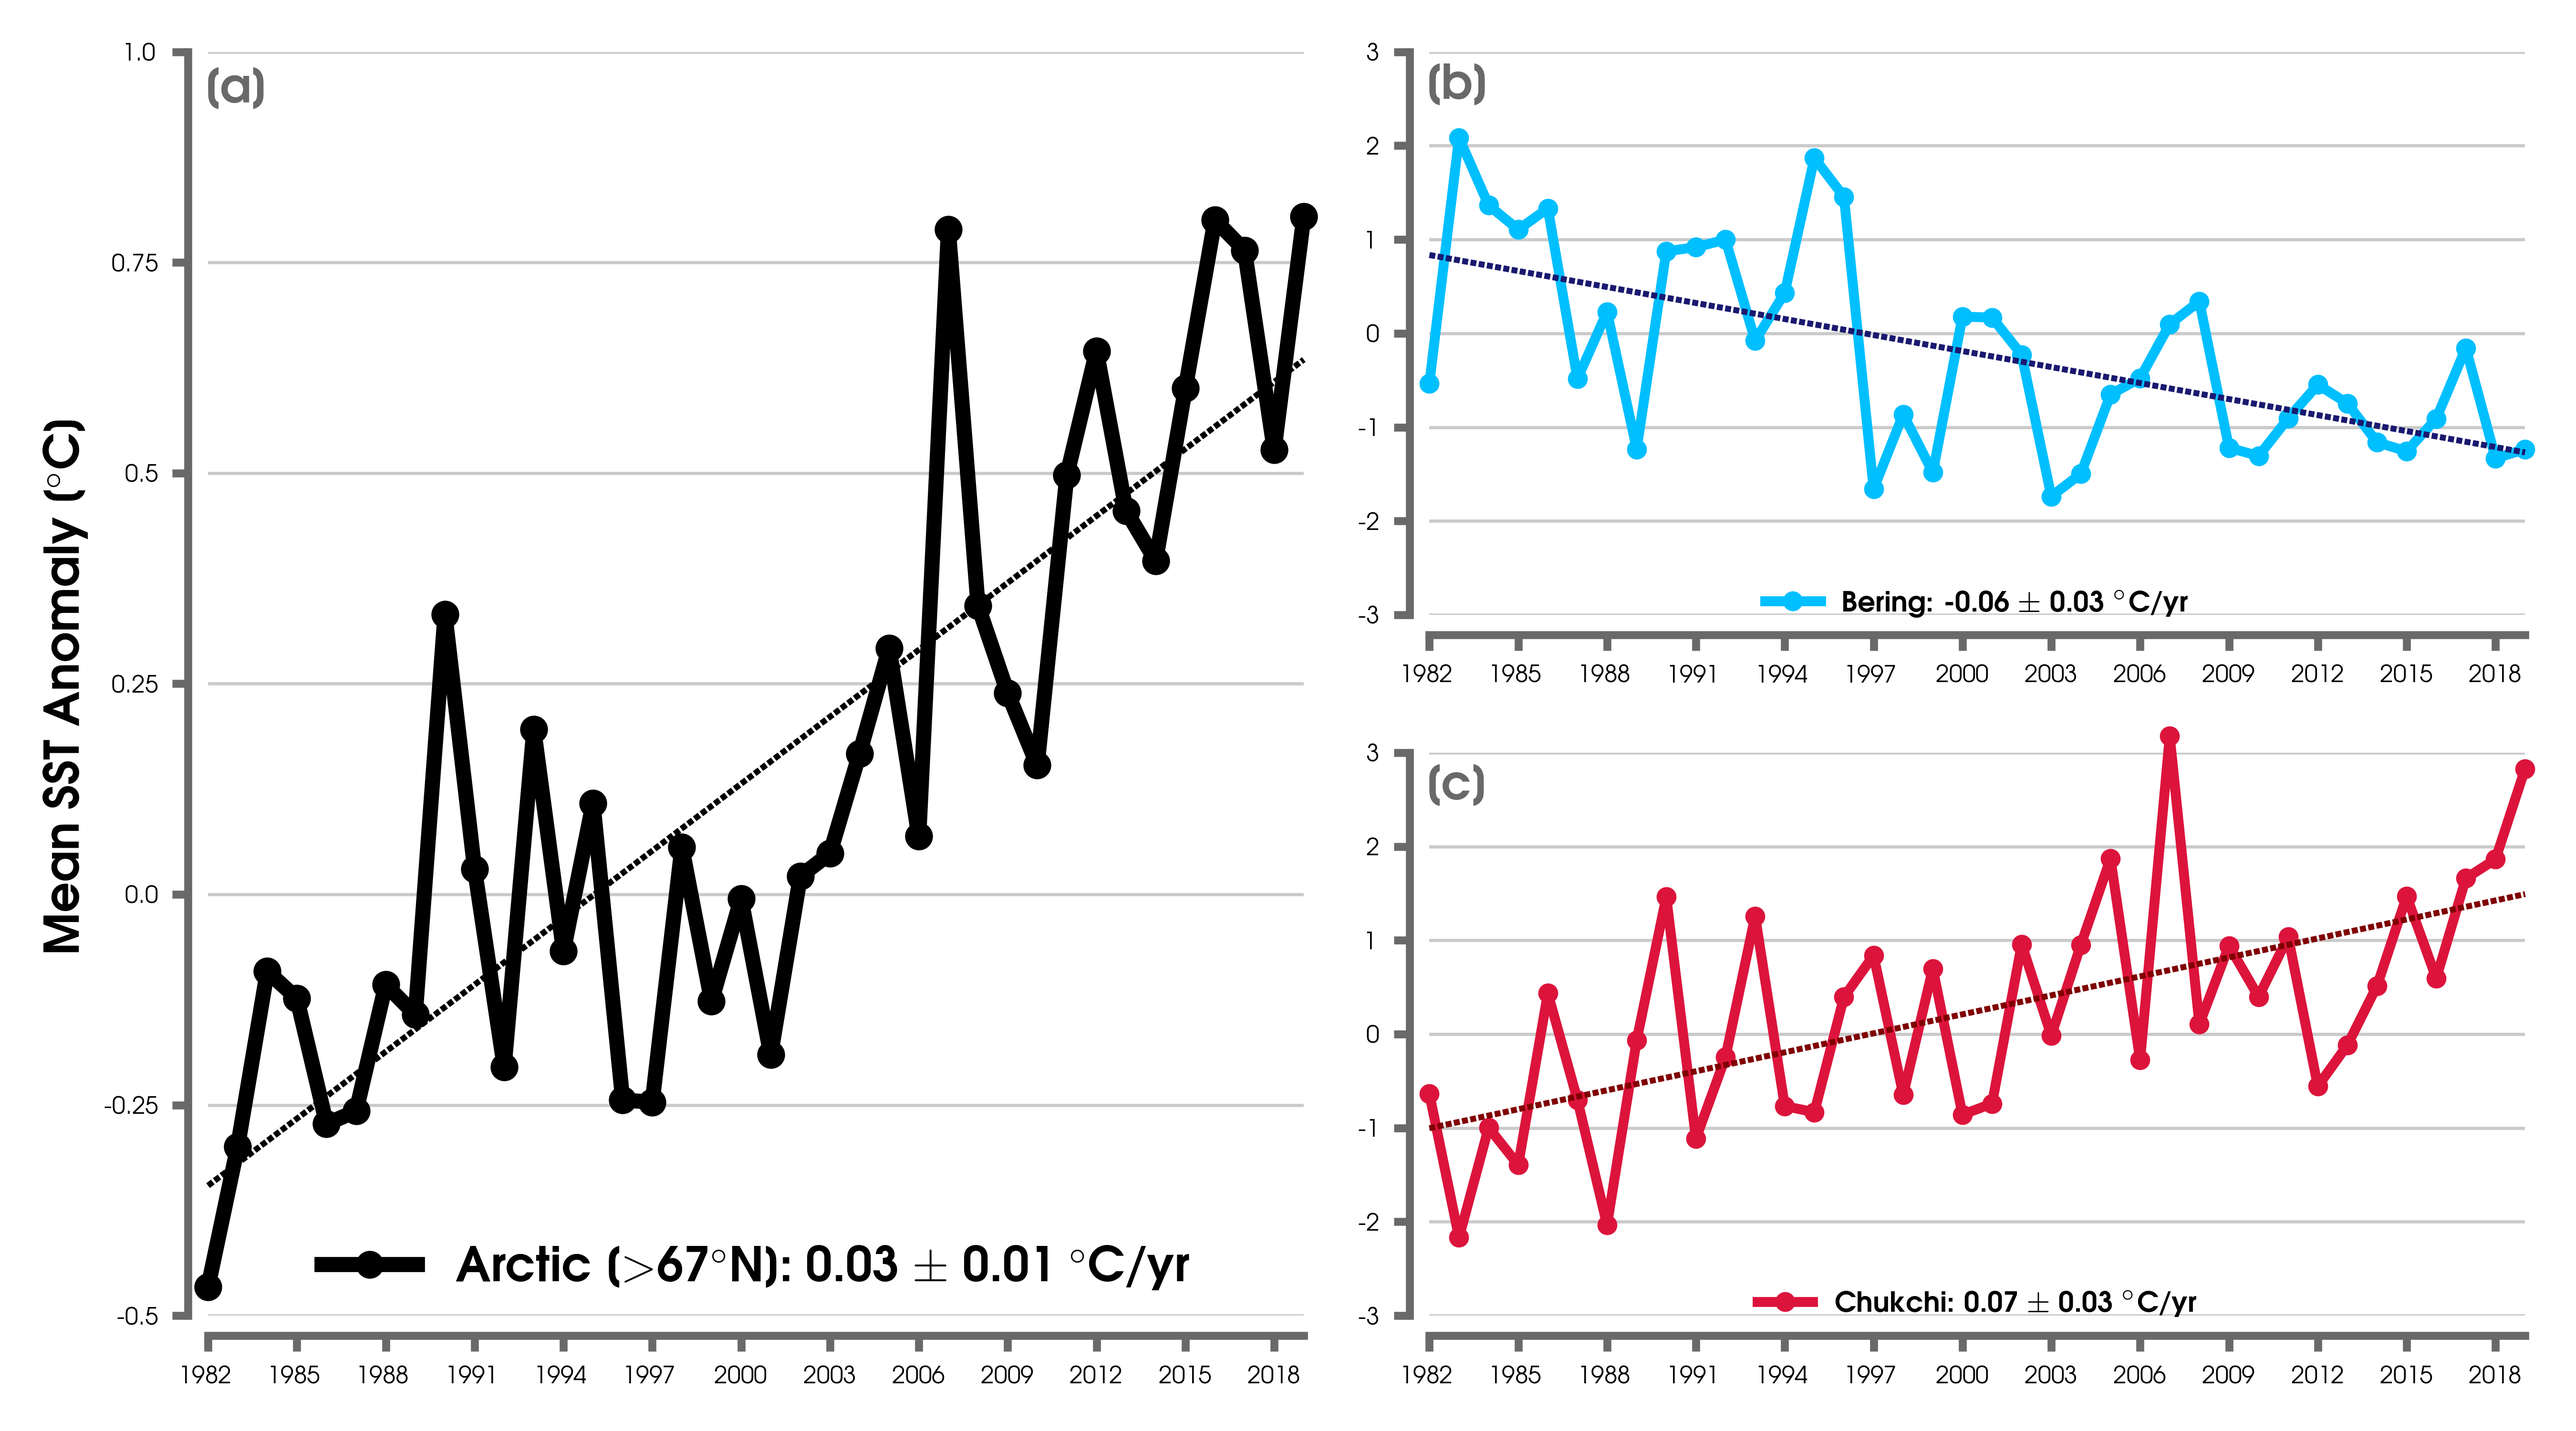
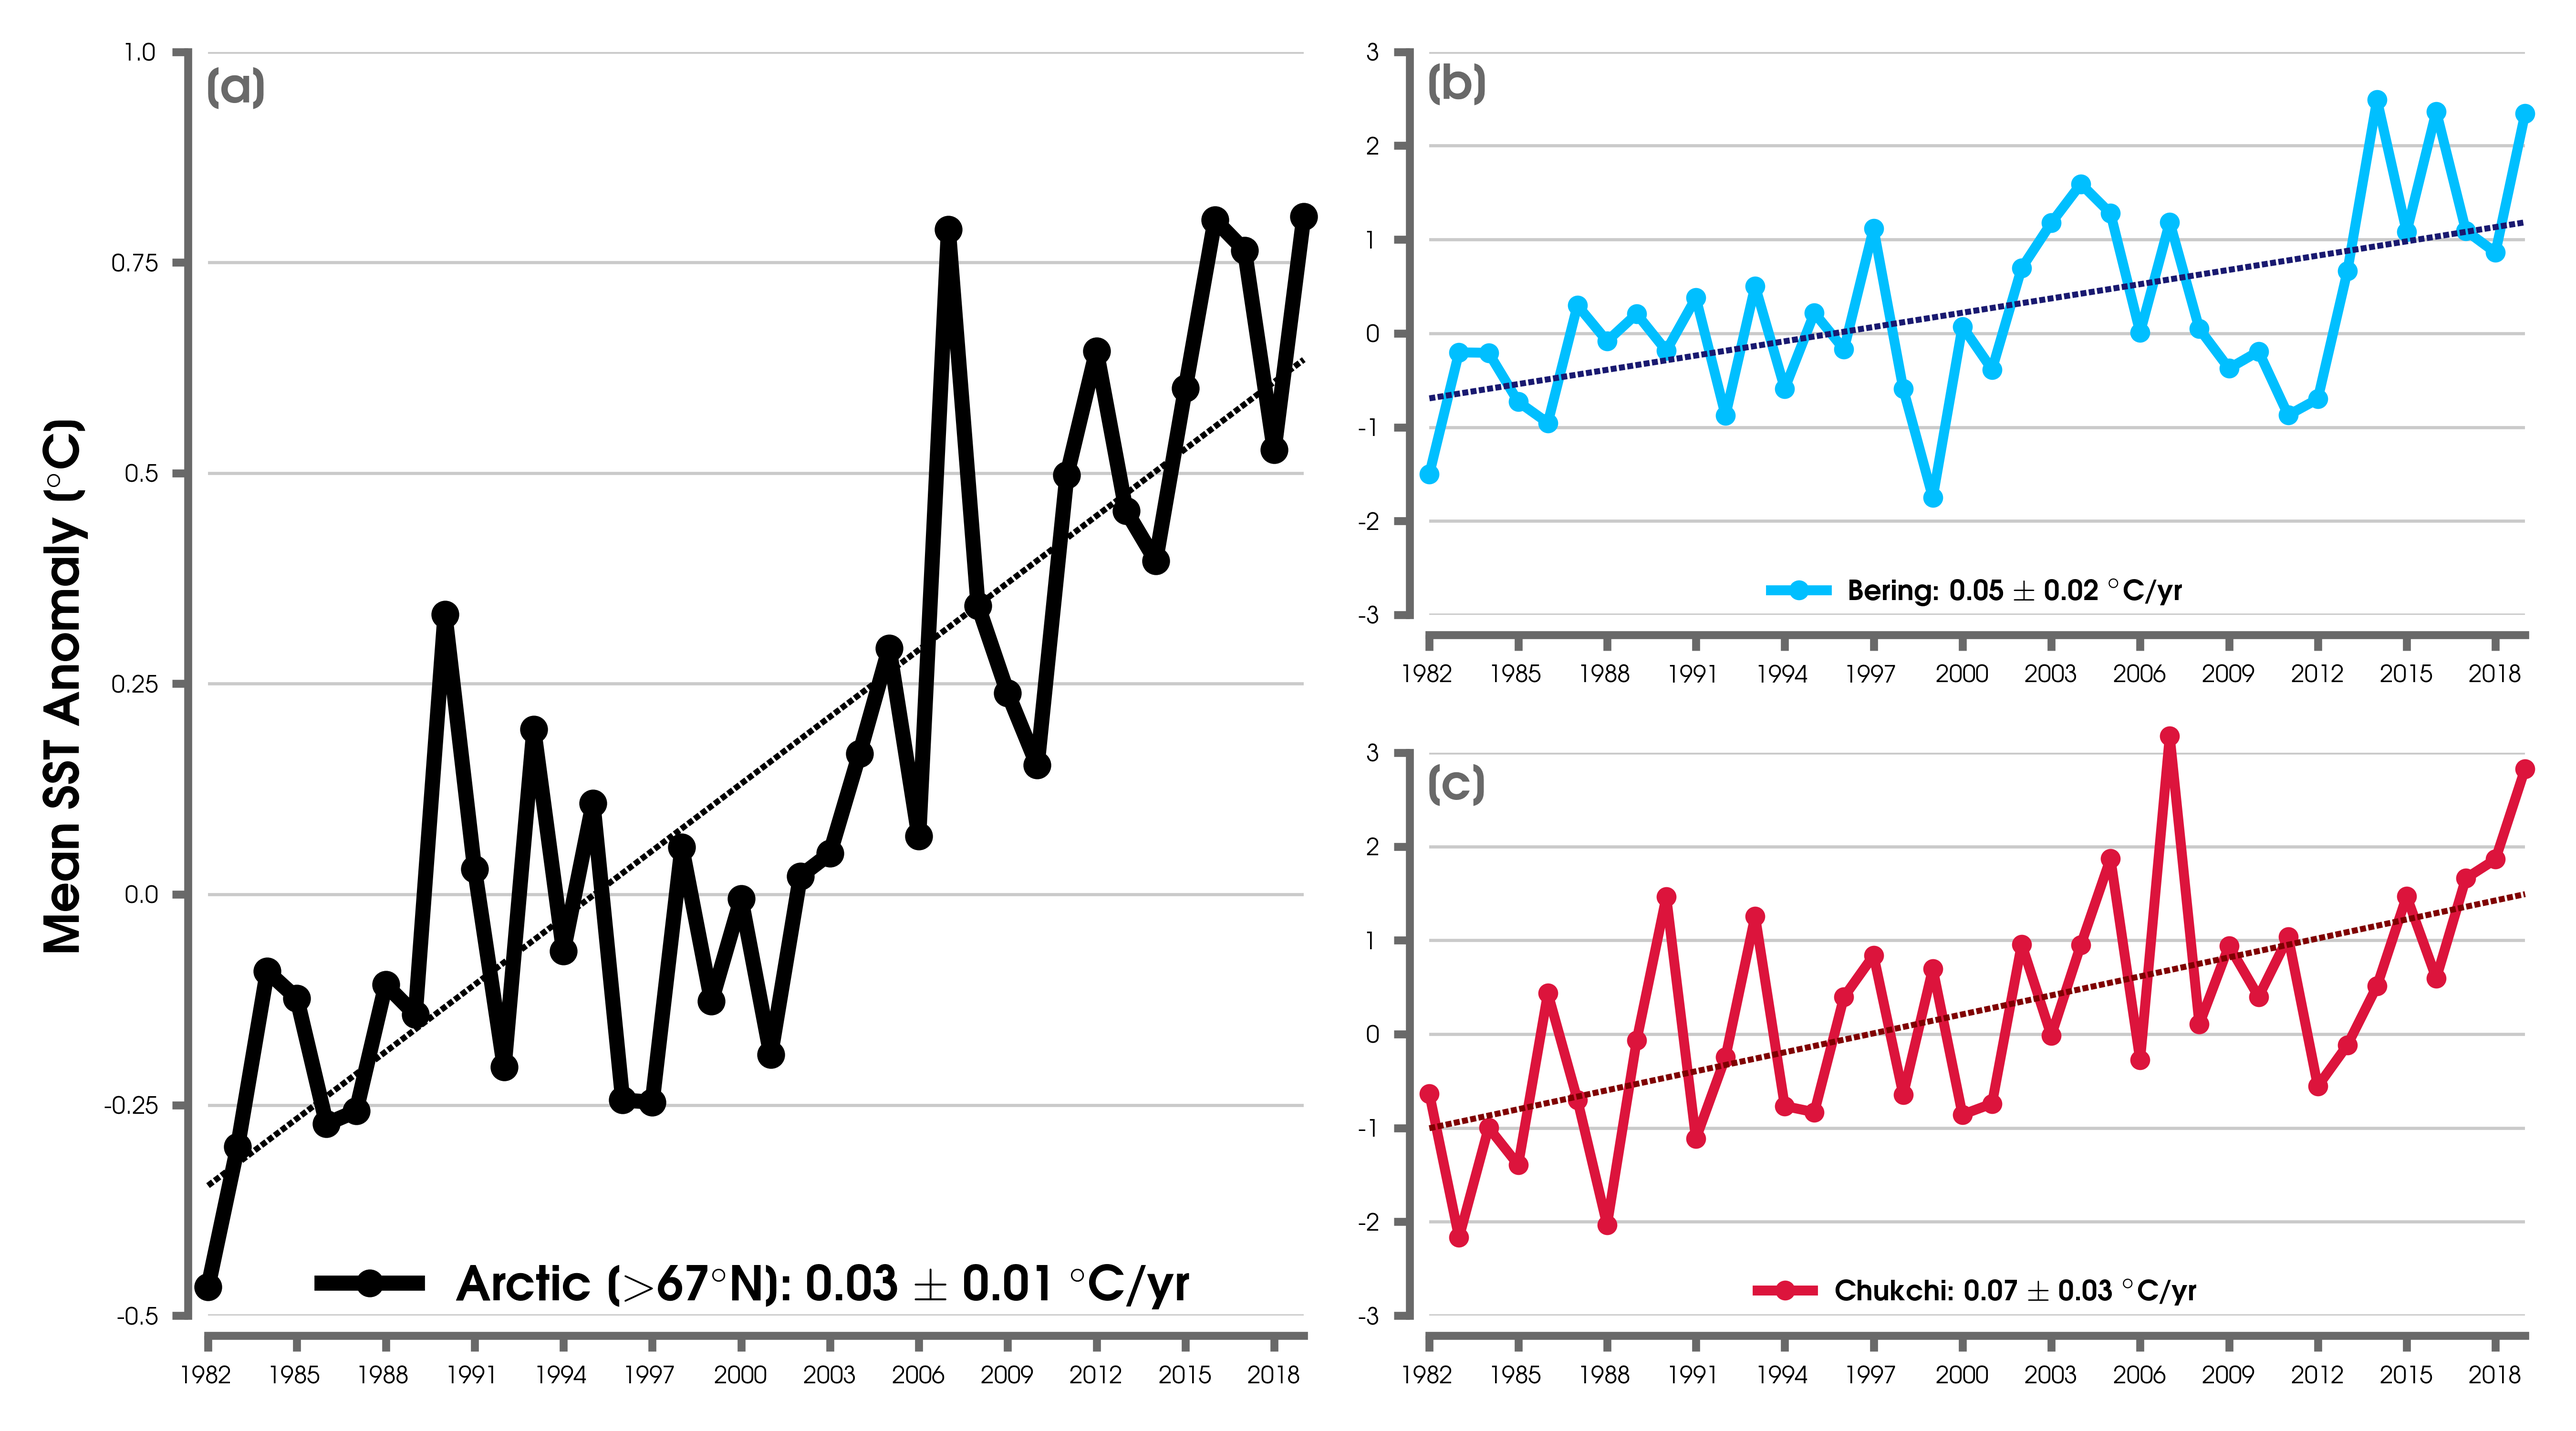
Barents SIE

diff --git a/BAMS_SOTC/2019/plot_SST_TimeSeries_Barents.py b/BAMS_SOTC/2019/plot_SST_TimeSeries_Barents.py
@@ -1,0 +1,118 @@
+"""
+Script plot time series for Barents sea ice and SST
+ 
+Source : Reynolds et al. 2002 [Journal of Climate]
+Data: https://www.esrl.noaa.gov/psd/data/gridded/data.noaa.oisst.v2.html
+Author : Zachary Labe
+Date : 4 February 2019
+"""
+
+import matplotlib.pyplot as plt
+import numpy as np
+import scipy.stats as sts
+import calc_SIE as ICEALL
+import calc_RegionalSIE as ICEREG
+
+### Define constants
+directorydata = '/home/zlabe/Documents/Projects/ClimatePython/BAMS_SOTC/2019/Data/'
+directoryfigure = '/home/zlabe/Documents/Projects/ClimatePython/BAMS_SOTC/2019/Figures/'
+years = np.arange(1982,2019+1,1)
+month = 'aug'
+monq = 8
+
+### Read in SST data
+ba = np.genfromtxt(directorydata + 'SST_Barents_%s_1982-2019.txt' % month)
+
+### Calculate trend lines
+slopeb,interceptb,rvalueb,pvalueb,std_errb = sts.linregress(years,ba)
+lineb = slopeb*years + interceptb
+confb = std_errb*1.96
+
+### Read in sea ice data
+#extb,nsidc = ICEALL.calcSIE(15,'north_barents',monq)
+extb = ICEREG.read_RegionalSIE('Barents',monq)
+
+###############################################################################
+###############################################################################
+###############################################################################
+### Create subplots SST data
+plt.rc('text',usetex=True)
+plt.rc('font',**{'family':'sans-serif','sans-serif':['Avant Garde']}) 
+
+def adjust_spines(ax, spines):
+    for loc, spine in ax.spines.items():
+        if loc in spines:
+            spine.set_position(('outward', 5))
+        else:
+            spine.set_color('none')  
+    if 'left' in spines:
+        ax.yaxis.set_ticks_position('left')
+    else:
+        ax.yaxis.set_ticks([])
+
+    if 'bottom' in spines:
+        ax.xaxis.set_ticks_position('bottom')
+    else:
+        ax.xaxis.set_ticks([])
+        
+fig = plt.figure()
+ax = plt.subplot(111)
+        
+adjust_spines(ax, ['left','bottom'])            
+ax.spines['top'].set_color('none')
+ax.spines['right'].set_color('none') 
+ax.spines['bottom'].set_color('dimgrey')
+ax.spines['left'].set_color('dimgrey')
+ax.spines['bottom'].set_linewidth(2)
+ax.spines['left'].set_linewidth(2) 
+ax.tick_params('both',length=5.5,width=2,which='major',color='dimgrey')     
+
+rects = plt.bar(np.arange(0.5,38.5,1),extb,color='navy',
+                edgecolor='navy')
+
+ylabels = map(str,np.arange(0,2.3,0.2))
+plt.xticks(np.arange(0.5,46.5,3),map(str,np.arange(1982,2025,3)),
+           size=7)
+plt.yticks(np.arange(0,2.1,0.05),map(str,np.round(np.arange(0,2.05,0.05),2)),
+           size=7)
+plt.ylim([0,0.2])
+plt.xlim([0,38.5])
+plt.ylabel(r'\textbf{Barents: Mean Sea Ice Extent [$\bf{\times}$10$\bf{^{6}}$\ \textbf{km}$\bf{^2}$]}',
+           fontsize=11,alpha=1,color='k') 
+        
+################################################################################
+a = plt.axes([.43, .67, .5, .2])
+
+#adjust_spines(a, ['left', 'bottom'])
+a.spines['top'].set_color('none')
+a.spines['right'].set_color('w')
+a.spines['left'].set_color('dimgrey')
+a.spines['bottom'].set_color('dimgrey')
+a.spines['left'].set_linewidth(2)
+a.spines['right'].set_linewidth(0)
+a.spines['bottom'].set_linewidth(2)
+a.tick_params('both',length=4,width=2,which='major',color='dimgrey')
+
+plt.plot(years,ba,linewidth=2,color='steelblue',marker='o',
+         markersize=3,clip_on=False,
+         label = r'\textbf{Northern Barents: %s $\bf{\pm}$ %s $\bf{^{\circ}}$C/yr}' % \
+         (np.round(slopeb,2),np.round(confb,2)),zorder=11)
+plt.plot(years,lineb,linewidth=1,color='k',linestyle='--',
+         dashes=(1,0.4),clip_on=False,zorder=12)
+
+l = plt.legend(fontsize=5,loc='upper center',bbox_to_anchor=(0.5,0.215),
+               ncol=1,frameon=False,fancybox=True,shadow=False)
+
+a.yaxis.grid(zorder=1,color='dimgrey',alpha=0.35)
+plt.xticks(np.arange(1982,2020,3),map(str,np.arange(1982,2020,3)),
+           size=5)
+plt.yticks(np.arange(-10,11,1),map(str,np.arange(-10,11,1)),
+           size=5)
+plt.xlim([1982,2019])
+plt.ylim([-3,3])
+a.tick_params(axis='x', which='major', pad=1)
+a.tick_params(axis='y', which='major', pad=1)
+plt.ylabel(r'\textbf{Mean SST Anomaly [$^\circ$C]}',fontsize=5,color='k',
+                     labelpad=2)
+
+plt.savefig(directoryfigure + 'SST_TimeSeries_%s_Barents.png' % month,dpi = 600)

diff --git a/BAMS_SOTC/2019/plot_SST_TimeSeries_3.py b/BAMS_SOTC/2019/plot_SST_TimeSeries_3.py
@@ -24,7 +24,7 @@ month = 'aug'
 ### Read in data
 polar = np.genfromtxt(directorydata + 'SST_Arctic_%s_1982-2019.txt' % month)
 ch = np.genfromtxt(directorydata + 'SST_Chukchi_%s_1982-2019.txt' % month)
-ba = np.genfromtxt(directorydata + 'SST_Barents_%s_1982-2019.txt' % month)
+ba = np.genfromtxt(directorydata + 'SST_Bering_%s_1982-2019.txt' % month)
 
 ### Calculate trend lines
 slopep,interceptp,rvaluep,pvaluep,std_errp = sts.linregress(years,polar)
@@ -65,7 +65,6 @@ def adjust_spines(ax, spines):
 ###############################################################################
 fig = plt.figure(figsize=(9,5))
 gs = fig.add_gridspec(2,2)
-
 ax1 = fig.add_subplot(gs[:,0])
 adjust_spines(ax1, ['left', 'bottom'])
 ax1.spines['top'].set_color('none')
@@ -84,7 +83,7 @@ plt.plot(years,polar,linewidth=3.8,color='k',marker='o',
 plt.plot(years,linep,linewidth=1.5,color='k',linestyle='--',
          dashes=(1,0.4),clip_on=False)
 
-l = plt.legend(fontsize=12,loc='upper center',bbox_to_anchor=(0.5,0.09),
+l = plt.legend(fontsize=12,loc='upper center',bbox_to_anchor=(0.5,0.075),
                ncol=1,frameon=False,fancybox=True,shadow=False)
 
 ax1.yaxis.grid(zorder=1,color='dimgrey',alpha=0.35)
@@ -117,7 +116,7 @@ plt.plot(years,ba,linewidth=2.5,color='deepskyblue',marker='o',
 plt.plot(years,lineb,linewidth=1.5,color='midnightblue',linestyle='--',
          dashes=(1,0.4),clip_on=False)
 
-l = plt.legend(fontsize=7,loc='upper center',bbox_to_anchor=(0.5,0.09),
+l = plt.legend(fontsize=7,loc='upper center',bbox_to_anchor=(0.5,0.11),
                ncol=1,frameon=False,fancybox=True,shadow=False)
 
 ax2.yaxis.grid(zorder=1,color='dimgrey',alpha=0.35)
@@ -148,7 +147,7 @@ plt.plot(years,ch,linewidth=2.5,color='crimson',marker='o',
 plt.plot(years,linec,linewidth=1.5,color='maroon',linestyle='--',
          dashes=(1,0.4),clip_on=False)
 
-l = plt.legend(fontsize=7,loc='upper center',bbox_to_anchor=(0.5,0.09),
+l = plt.legend(fontsize=7,loc='upper center',bbox_to_anchor=(0.5,0.11),
                ncol=1,frameon=False,fancybox=True,shadow=False)
 
 ax3.yaxis.grid(zorder=1,color='dimgrey',alpha=0.35)

diff --git a/BAMS_SOTC/2019/calc_RegionalSIE.py b/BAMS_SOTC/2019/calc_RegionalSIE.py
@@ -1,0 +1,35 @@
+def read_RegionalSIE(regionsea,mon):
+    """
+    Retrieve data from NSIDC on regional sea ice extent (daily)
+    """
+    
+    ### Import modules
+    import numpy as np
+    import pandas as pd
+
+    ### Select parameters
+    years = np.arange(1982,2019+1,1)
+    
+    ### Load url
+    url = 'ftp://sidads.colorado.edu/DATASETS/NOAA/G02135/seaice_analysis/' \
+            'Sea_Ice_Index_Regional_Monthly_Data_G02135_v3.0.xlsx'
+    
+    ### Read file
+    time = ((mon-1)*2)+1
+    df_reg = pd.read_excel(url,sheet_name='%s-Extent-km^2' % (regionsea),
+                               header=3,
+                               usecols=range(time,time+1,1))
+    reg = df_reg.values
+    
+    ### Convert
+    regsieq = reg/1e6
+    
+    ### Plot through 2019
+    regsie = regsieq.squeeze()[3:-1]
+    
+    print('\nCompleted: Read sea ice data for %s!' % (regionsea))           
+    return regsie
+
+#### Call functions
+#regsie = read_RegionalSIE('Barents',8)
+#print(regsie)

diff --git a/BAMS_SOTC/2019/calc_SIE.py b/BAMS_SOTC/2019/calc_SIE.py
@@ -28,7 +28,6 @@ def readNSIDCData(currentmnq):
 def calcSIE(thresh,region,monq):
     ### Import modules
     import numpy as np
-    import matplotlib.pyplot as plt
     import calc_SeaIceConc_CDRv3 as ICE
     
     ### Read in sea ice concentration data
@@ -102,10 +101,10 @@ def calcSIE(thresh,region,monq):
     return ext,nsidc
 
 ### Call functions
-import numpy as np
-import matplotlib.pyplot as plt
-ext,nsidc = calcSIE(15,'north_barents',8)
-plt.plot(ext,label='weight')
-plt.plot(nsidc,label='NSIDC')
-plt.legend()
-plt.savefig('/home/zlabe/Desktop/test.png',dpi=300)
+#import numpy as np
+#import matplotlib.pyplot as plt
+#ext,nsidc = calcSIE(15,'north_barents',8)
+#plt.plot(ext,label='weight')
+#plt.plot(nsidc,label='NSIDC')
+#plt.legend()
+#plt.savefig('/home/zlabe/Desktop/test.png',dpi=300)

diff --git a/BAMS_SOTC/2019/calc_meanSST.py b/BAMS_SOTC/2019/calc_meanSST.py
@@ -120,7 +120,7 @@ print('----------------------------\n')
 std_err = std_err*1.96
 
 #### Saving files for time series data
-#for i in range(len(dataall)):
-#    np.savetxt(directorydata + 'SST_%s_%s_1982-2019.txt' % (regions[i],periodmonth),
-#               dataall[i])
-#    print('Completed: Saved data for %s!' % regions[i])
+for i in range(len(dataall)):
+    np.savetxt(directorydata + 'SST_%s_%s_1982-2019.txt' % (regions[i],periodmonth),
+               dataall[i])
+    print('Completed: Saved data for %s!' % regions[i])
